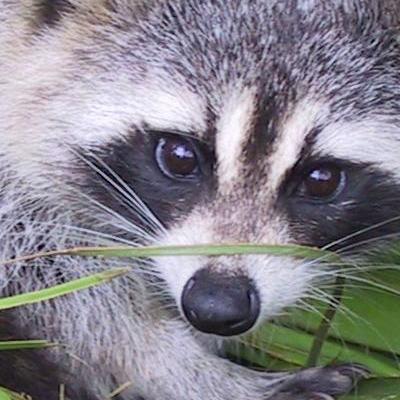
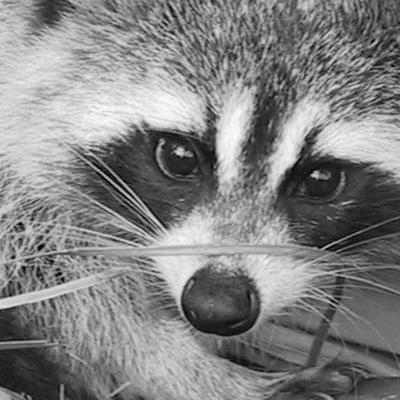
DAY01|EX03 remove th color to the croped image

diff --git a/Python-1-Array/ex03/zoom.py b/Python-1-Array/ex03/zoom.py
@@ -5,7 +5,7 @@ from numpy import ndarray
 
 def zoom(path: str) -> None:
     _ndarray = ft_load(path)
-    _ndarray = _ndarray[150:550, 400:800]
+    _ndarray = _ndarray[150:550, 400:800, 1]
     print(f"New shape after slicing: {_ndarray.shape}")
     print(_ndarray)
     
